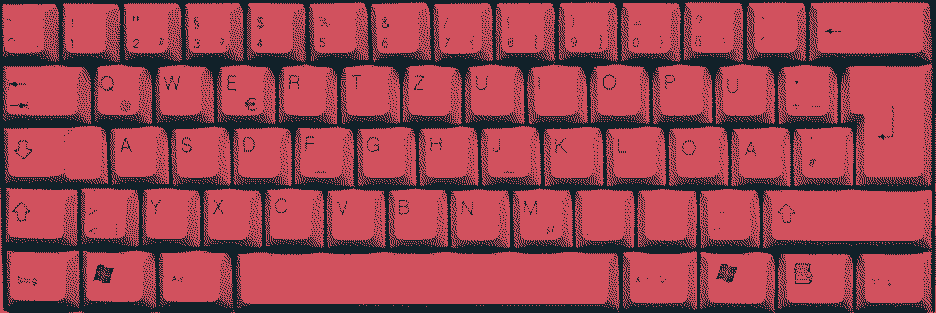
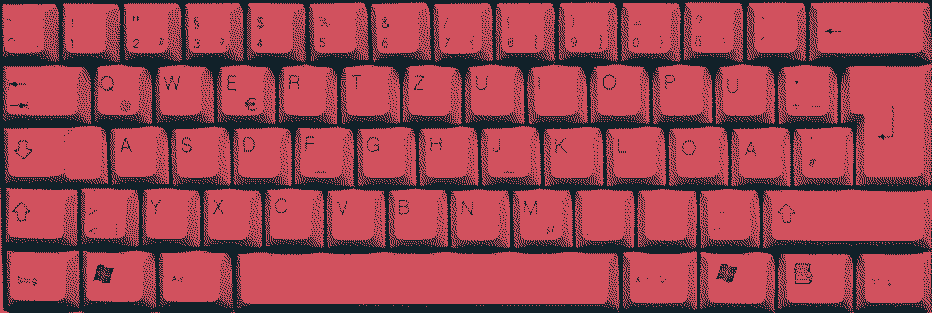
new keyboard image

Changed region(s): [[0.0311, 0.0, 1.0, 1.0], [0.2178, 0.8051, 0.28, 0.9776], [0.8712, 0.7764, 0.9024, 0.8051]]

diff --git a/src/components/GalleryInfos.vue b/src/components/GalleryInfos.vue
@@ -9,7 +9,6 @@ const keyboard = 'qwertyuiopasdfghjklzxcvbnm';
         <section id="info" :class="{flowers: galleryState.position}">
             <Transition mode="out-in">
                 <span v-if="galleryState.position == 0" class="keyboard" >
-                    <span class="keys" v-for="key in keyboard">{{  key }}</span>
                 </span>
                 <p v-else-if="galleryState.position == 1">flowers flowers flowers</p>
             </Transition>
@@ -36,17 +35,15 @@ const keyboard = 'qwertyuiopasdfghjklzxcvbnm';
         justify-content: center;
         overflow: hidden;
         gap: 0.5rem;
-        padding: 2rem;
-        animation-name: slideFromBottom;
+        animation-name: slideFromHeight;
         animation-duration: 1s;
         transition: all 2s ease-out;
 
 
         .keyboard {
-            display: grid;
-            grid-template-columns: repeat(10, 1fr);
-            grid-template-rows: repeat(3, 1fr);
-            gap: 0.5rem;
+            width: 100%;
+            height: 100%;
+            background-image: url('../assets/img/keyboard.png');
         }
         
         .keys {
@@ -60,7 +57,7 @@ const keyboard = 'qwertyuiopasdfghjklzxcvbnm';
         }
     }
     .flowers {
-        border: 2px solid $flower-green;
+        border: 2px dashed $flower-green;
         background-color: $flower-gray;
         p {
             color: $flower-blue;

diff --git a/src/assets/base.scss b/src/assets/base.scss
@@ -23,7 +23,12 @@
   to {opacity: 0%;}
 }
 
-@keyframes slideFromBottom {
+@keyframes slideFromWidth {
   from {width: 0%;}
   to {width: 100%;}
+}
+
+@keyframes slideFromHeight {
+  from {height: 0%;}
+  to {height: 100%;}
 }
